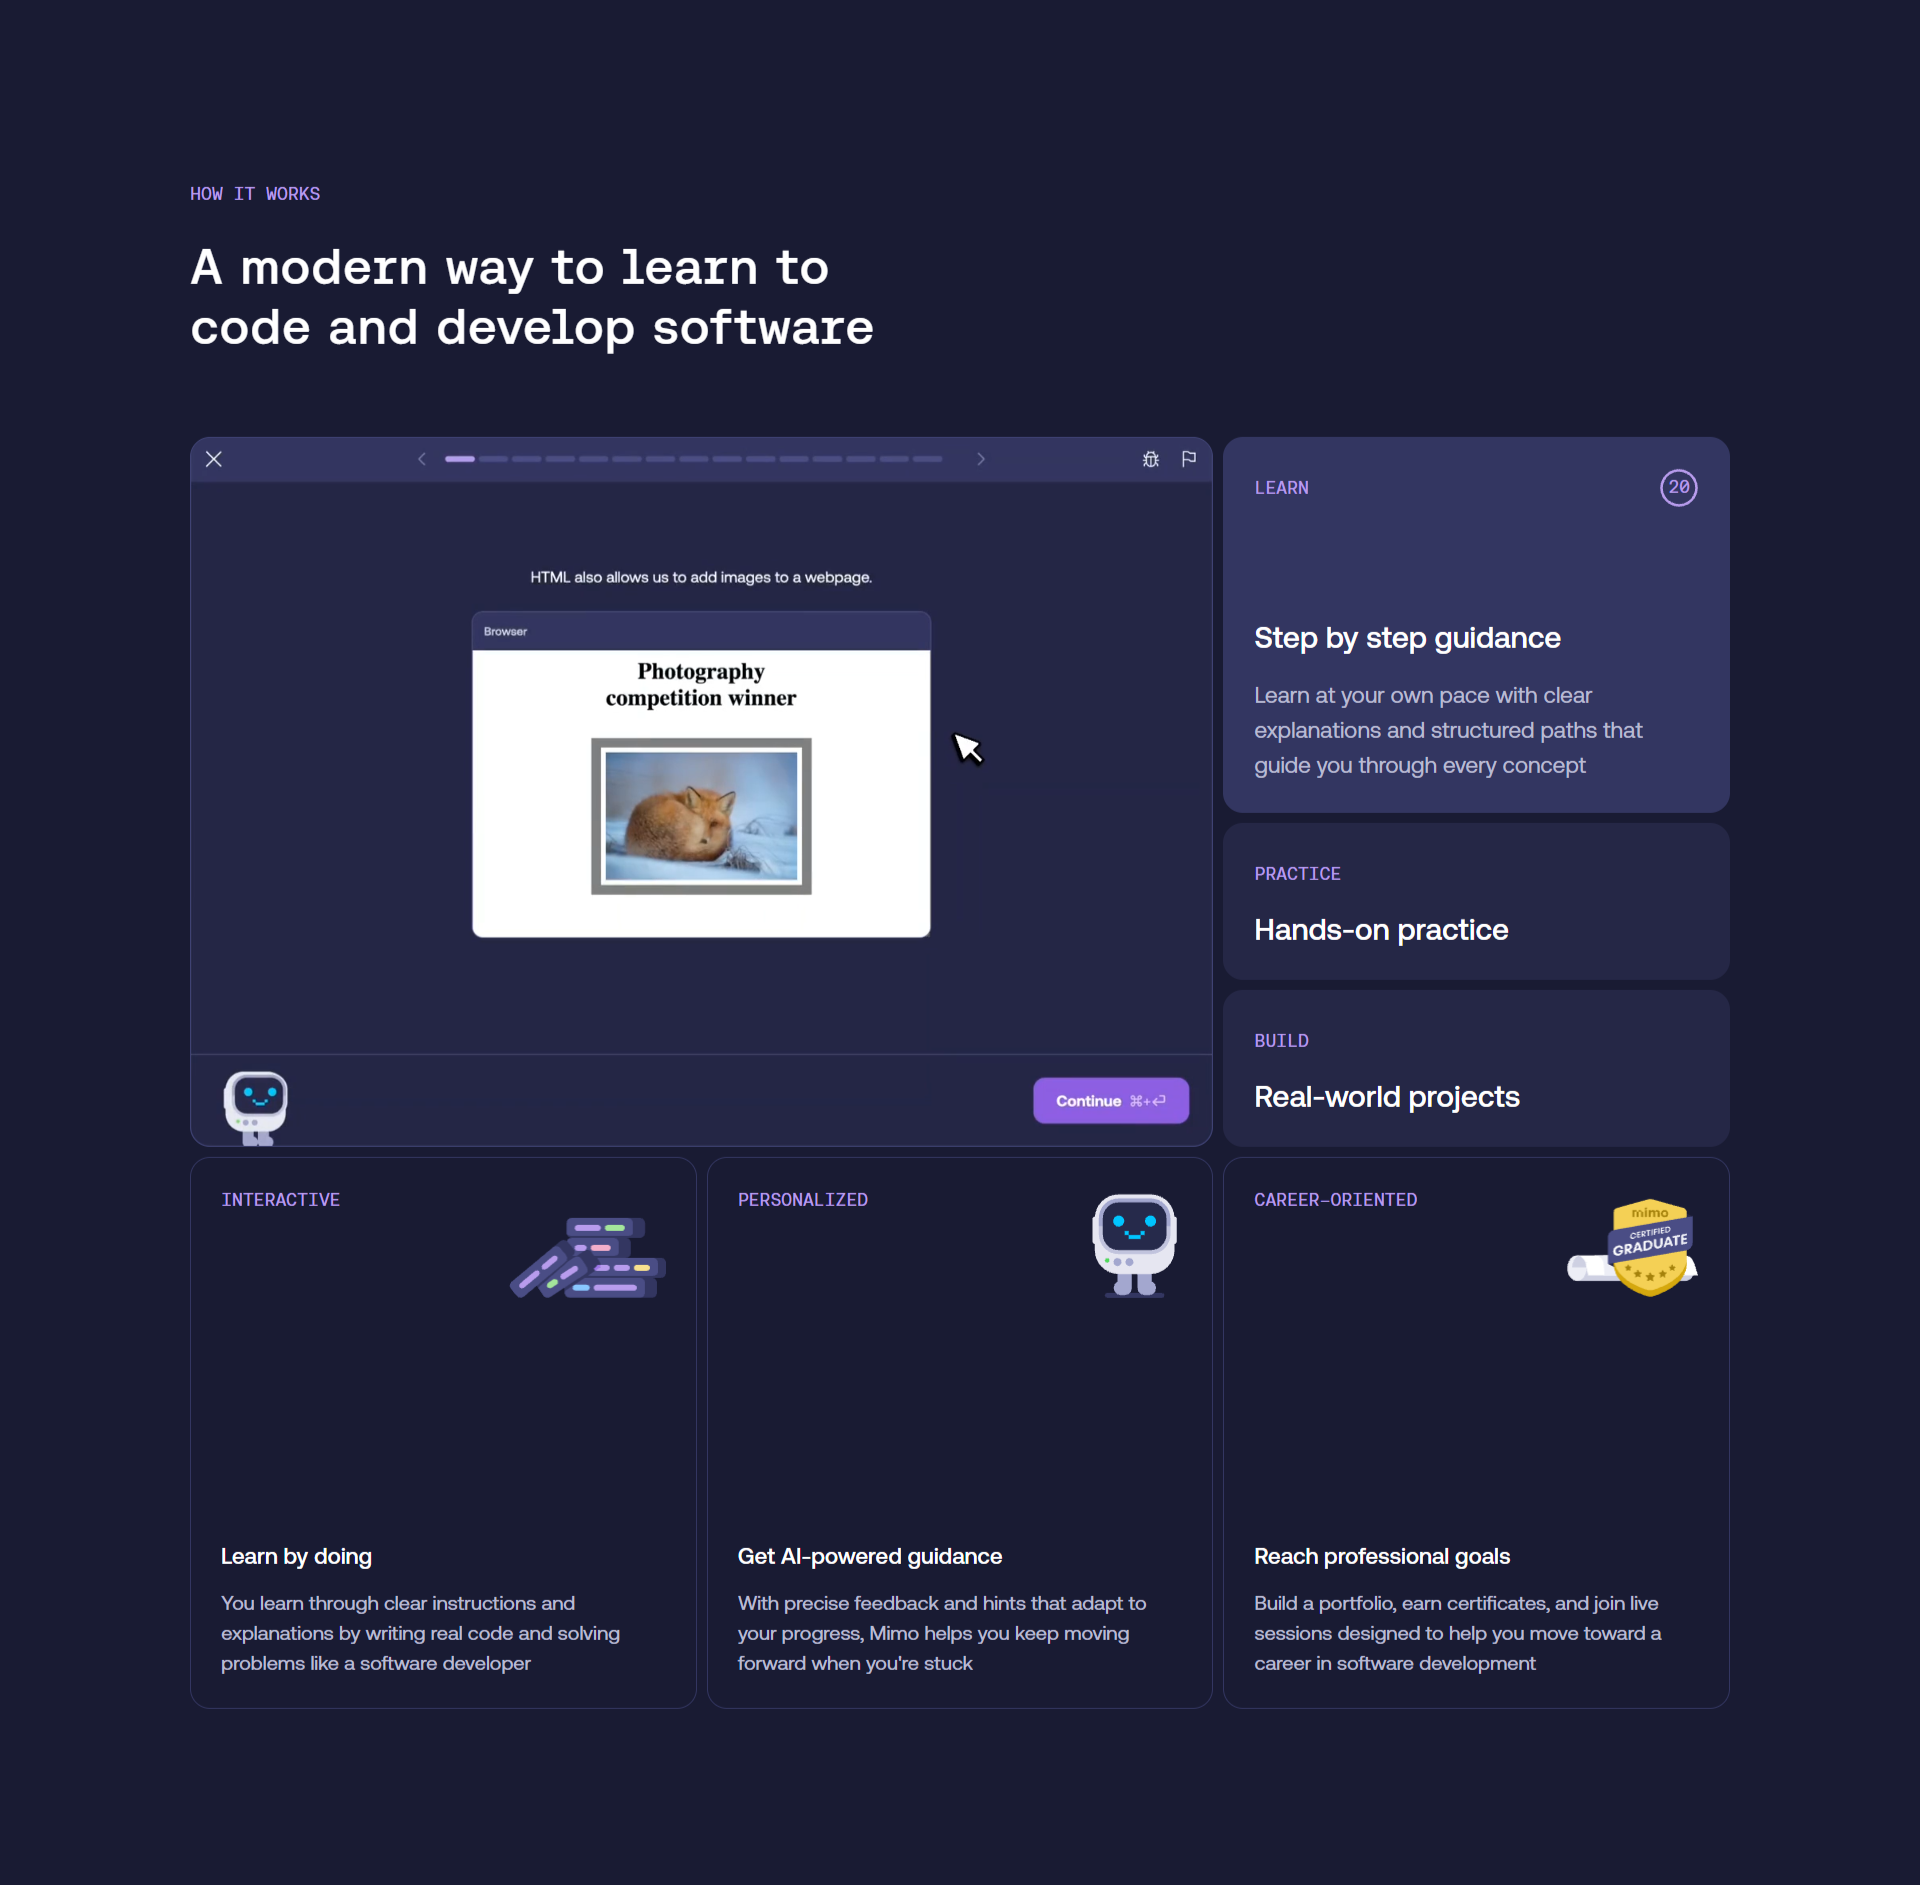
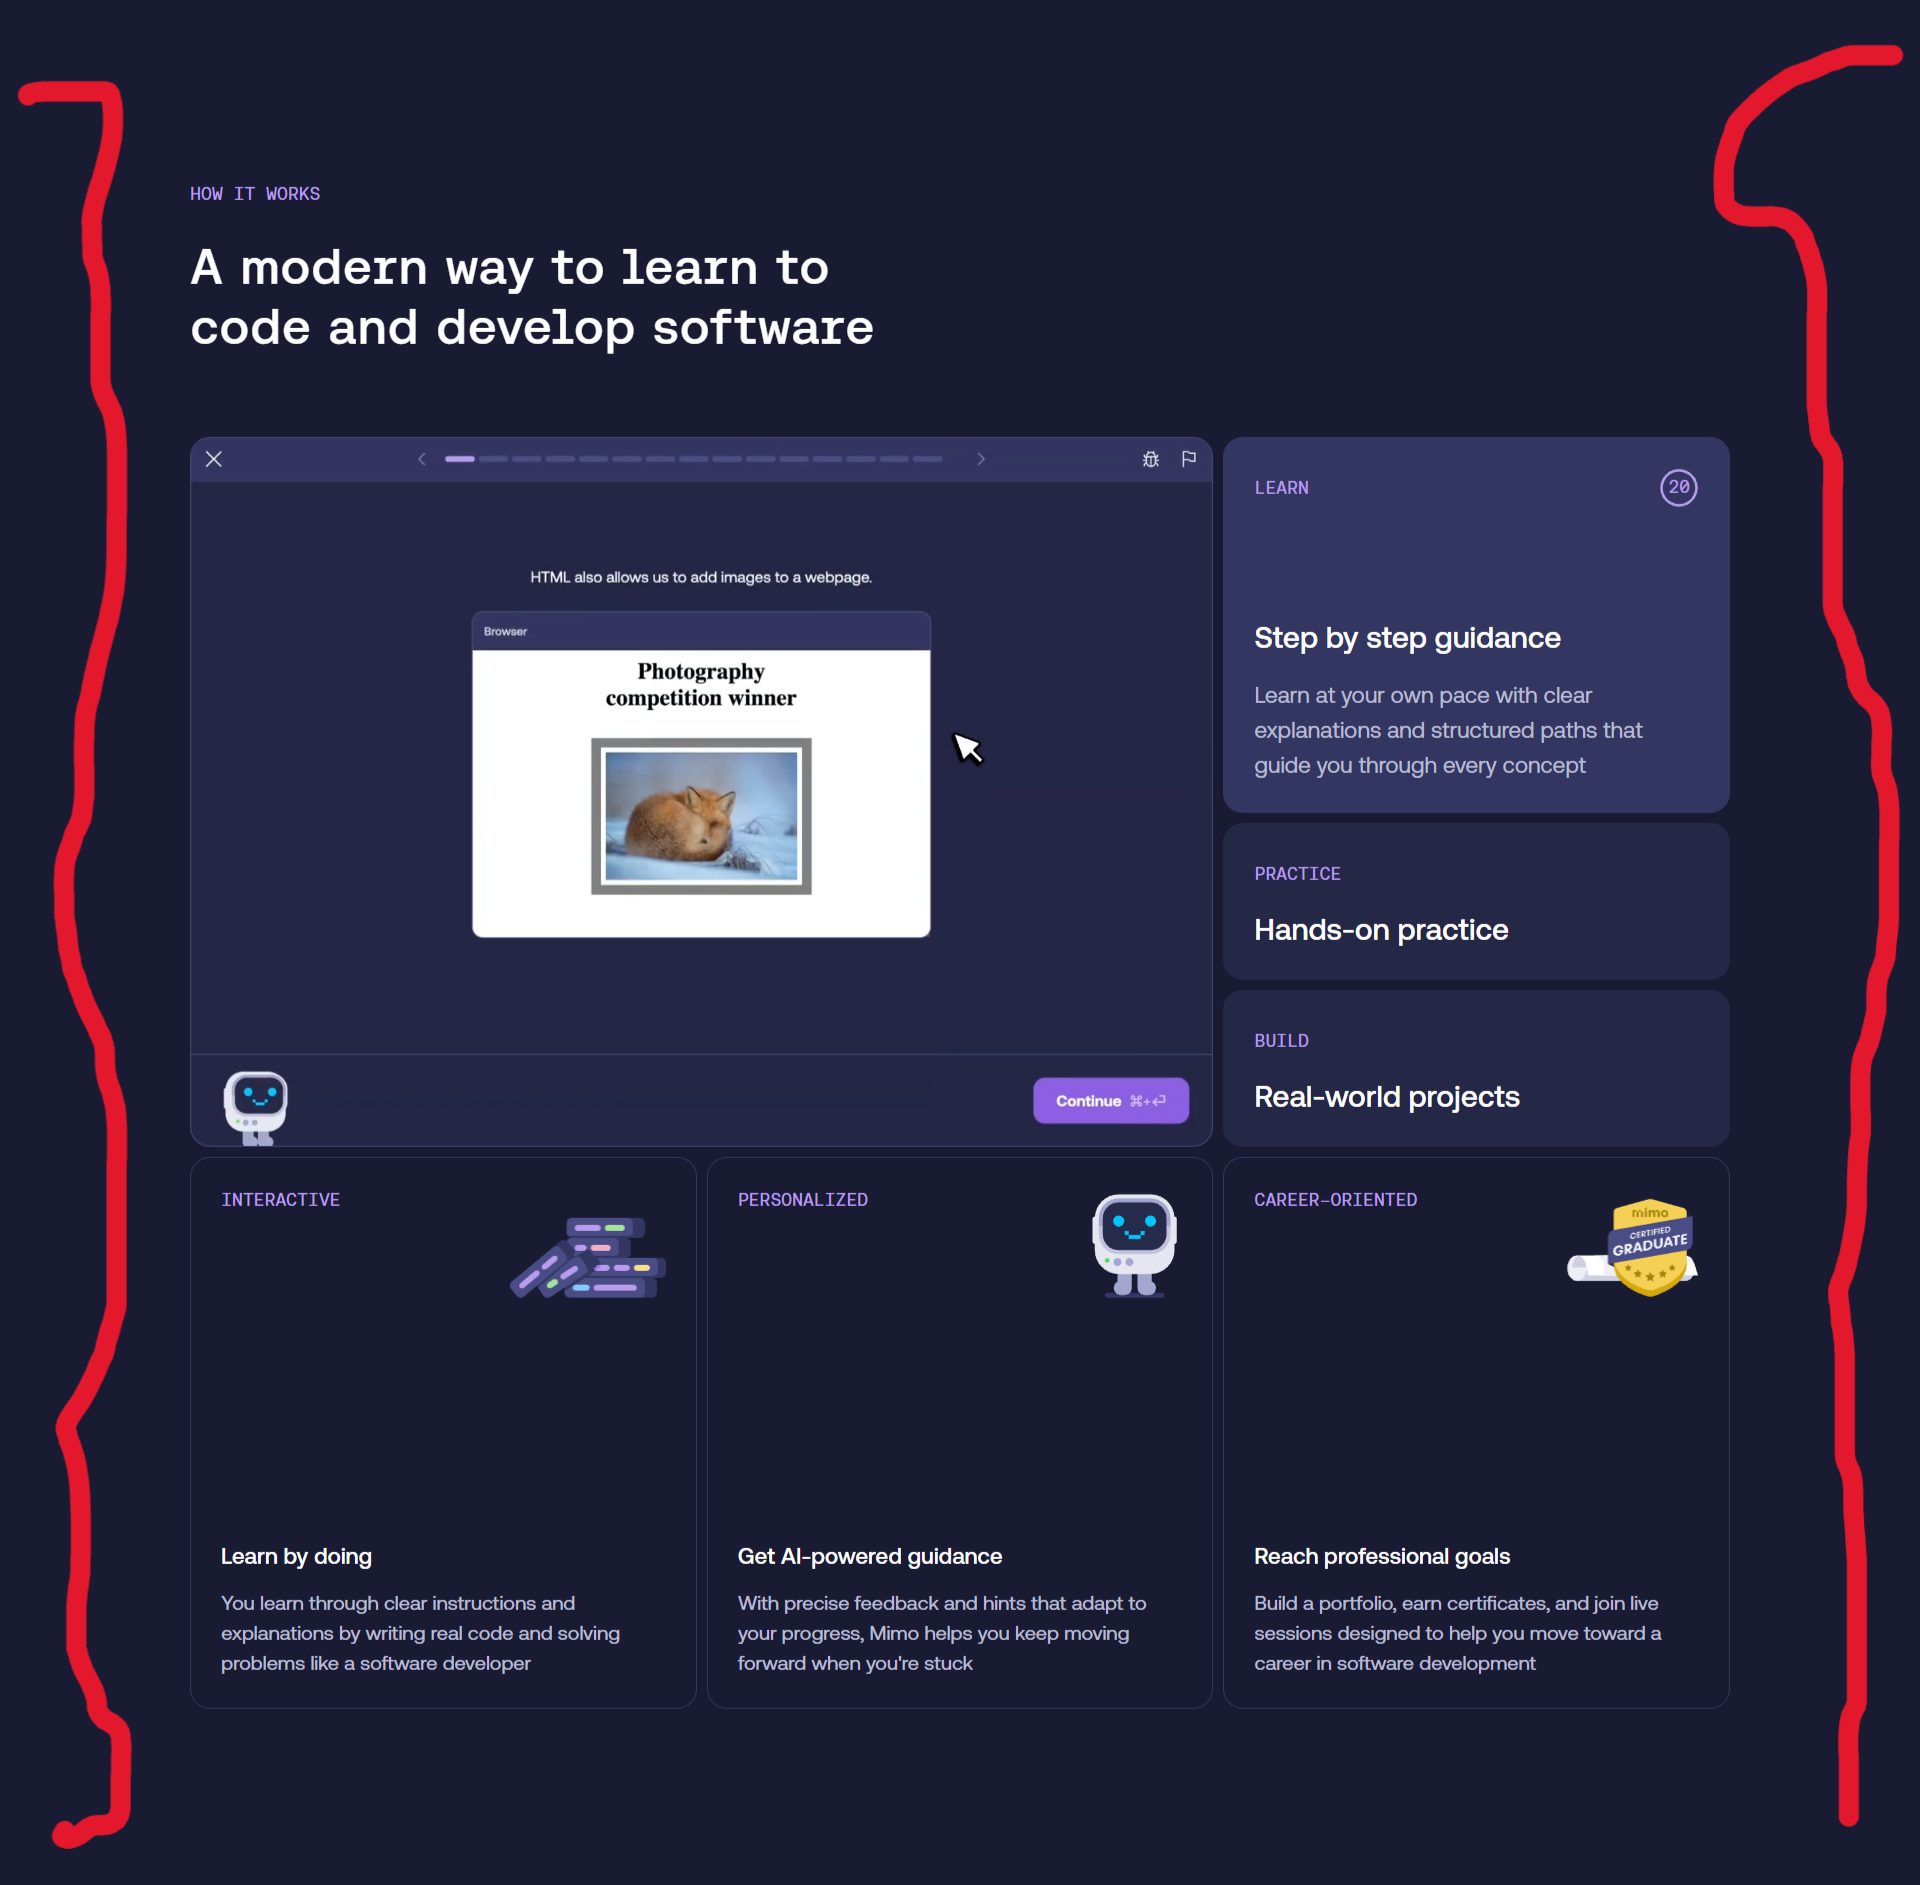
Fixed layout issues

diff --git a/website/Landing/src/components/sections/HowItWorksSection.jsx b/website/Landing/src/components/sections/HowItWorksSection.jsx
@@ -181,61 +181,65 @@ function HowItWorksSection() {
 
   return (
     <section className="how-it-works" aria-labelledby="how-it-works-title">
-      <div className="how-it-works__intro">
-        <p className="eyebrow">How it works</p>
-        <h2 id="how-it-works-title">
-          A modern way to learn to code and develop software
-        </h2>
-      </div>
-
-      <div className="how-it-works__top">
-        <LessonPreview />
-
-        <div className="how-it-works__rail">
-          <div className="workflow-track" aria-hidden="true">
-            {detailCards.map((card, index) => (
-              <span
-                key={card.title}
-                className={index === activeIndex ? 'workflow-track__dot workflow-track__dot--active' : 'workflow-track__dot'}
-              />
-            ))}
+      <div className="container">
+        <div className="how-it-works__inner">
+          <div className="how-it-works__intro">
+            <p className="eyebrow">How it works</p>
+            <h2 id="how-it-works-title">
+              A modern way to learn to code and develop software
+            </h2>
           </div>
 
-          {detailCards.map((card, index) => (
-            <article
-              key={card.title}
-              className={`workflow-card ${index === activeIndex ? 'workflow-card--active' : ''}`.trim()}
-            >
-              <button
-                className="workflow-card__trigger"
-                type="button"
-                onClick={() => handleCardSelect(index)}
-              >
-                <div className="workflow-card__head">
-                  <span className="workflow-card__badge">{card.kicker}</span>
-                  {index === activeIndex ? <ProgressRing remainingMs={remainingMs} /> : null}
-                </div>
-                <h3>{card.title}</h3>
-                <div className="workflow-card__body">
-                  <div className="workflow-card__body-inner">
-                    <p>{card.description}</p>
-                  </div>
-                </div>
-              </button>
-            </article>
-          ))}
-        </div>
-      </div>
+          <div className="how-it-works__top">
+            <LessonPreview />
 
-      <div className="how-it-works__bottom">
-        {benefitCards.map((card) => (
-          <article key={card.title} className={`benefit-card benefit-card--${card.tone}`}>
-            <p className="benefit-card__eyebrow">{card.eyebrow}</p>
-            <BenefitIcon icon={card.icon} />
-            <h3>{card.title}</h3>
-            <p>{card.description}</p>
-          </article>
-        ))}
+            <div className="how-it-works__rail">
+              <div className="workflow-track" aria-hidden="true">
+                {detailCards.map((card, index) => (
+                  <span
+                    key={card.title}
+                    className={index === activeIndex ? 'workflow-track__dot workflow-track__dot--active' : 'workflow-track__dot'}
+                  />
+                ))}
+              </div>
+
+              {detailCards.map((card, index) => (
+                <article
+                  key={card.title}
+                  className={`workflow-card ${index === activeIndex ? 'workflow-card--active' : ''}`.trim()}
+                >
+                  <button
+                    className="workflow-card__trigger"
+                    type="button"
+                    onClick={() => handleCardSelect(index)}
+                  >
+                    <div className="workflow-card__head">
+                      <span className="workflow-card__badge">{card.kicker}</span>
+                      {index === activeIndex ? <ProgressRing remainingMs={remainingMs} /> : null}
+                    </div>
+                    <h3>{card.title}</h3>
+                    <div className="workflow-card__body">
+                      <div className="workflow-card__body-inner">
+                        <p>{card.description}</p>
+                      </div>
+                    </div>
+                  </button>
+                </article>
+              ))}
+            </div>
+          </div>
+
+          <div className="how-it-works__bottom">
+            {benefitCards.map((card) => (
+              <article key={card.title} className={`benefit-card benefit-card--${card.tone}`}>
+                <p className="benefit-card__eyebrow">{card.eyebrow}</p>
+                <BenefitIcon icon={card.icon} />
+                <h3>{card.title}</h3>
+                <p>{card.description}</p>
+              </article>
+            ))}
+          </div>
+        </div>
       </div>
     </section>
   )

diff --git a/website/Landing/src/components/sections/WhatYouWillLearnSection.jsx b/website/Landing/src/components/sections/WhatYouWillLearnSection.jsx
@@ -45,46 +45,50 @@ function CourseChip({ label }) {
 function WhatYouWillLearnSection() {
   return (
     <section className="what-learn" aria-labelledby="what-learn-title">
-      <div className="what-learn__intro">
-        <p className="eyebrow">What you&apos;ll learn</p>
-        <h2 id="what-learn-title">In-demand skills for modern software development</h2>
-      </div>
+      <div className="container">
+        <div className="what-learn__inner">
+          <div className="what-learn__intro">
+            <p className="eyebrow">What you&apos;ll learn</p>
+            <h2 id="what-learn-title">In-demand skills for modern software development</h2>
+          </div>
 
-      <div className="what-learn__grid">
-        {careerCards.map((card) => (
-          <article key={card.title} className="career-card">
-            <div className="career-card__top">
-              <span className="career-card__label">Career path</span>
-              <CareerBadge accent={card.accent} />
+          <div className="what-learn__grid">
+            {careerCards.map((card) => (
+              <article key={card.title} className="career-card">
+                <div className="career-card__top">
+                  <span className="career-card__label">Career path</span>
+                  <CareerBadge accent={card.accent} />
+                </div>
+                <h3>{card.title}</h3>
+                <p>{card.description}</p>
+                <span className="career-card__foot">Beginner friendly</span>
+              </article>
+            ))}
+          </div>
+
+          <div className="course-strip">
+            <p className="course-strip__label">Courses</p>
+            <ul className="course-strip__list">
+              {courseTags.map((course) => (
+                <CourseChip key={course} label={course} />
+              ))}
+            </ul>
+          </div>
+
+          <div className="learn-quiz">
+            <div>
+              <h3>Not sure where to start?</h3>
+              <p>Take a quick quiz to find a path that fits your goals in only a few minutes.</p>
             </div>
-            <h3>{card.title}</h3>
-            <p>{card.description}</p>
-            <span className="career-card__foot">Beginner friendly</span>
-          </article>
-        ))}
-      </div>
-
-      <div className="course-strip">
-        <p className="course-strip__label">Courses</p>
-        <ul className="course-strip__list">
-          {courseTags.map((course) => (
-            <CourseChip key={course} label={course} />
-          ))}
-        </ul>
-      </div>
-
-      <div className="learn-quiz">
-        <div>
-          <h3>Not sure where to start?</h3>
-          <p>Take a quick quiz to find a path that fits your goals in only a few minutes.</p>
-        </div>
-        <Button variant="secondary">Take the quiz</Button>
-        <div className="learn-quiz__bot" aria-hidden="true">
-          <span className="learn-quiz__bot-head">
-            <span />
-            <span />
-          </span>
-          <span className="learn-quiz__bot-body" />
+            <Button variant="secondary">Take the quiz</Button>
+            <div className="learn-quiz__bot" aria-hidden="true">
+              <span className="learn-quiz__bot-head">
+                <span />
+                <span />
+              </span>
+              <span className="learn-quiz__bot-body" />
+            </div>
+          </div>
         </div>
       </div>
     </section>

diff --git a/website/Landing/src/styles/index.css b/website/Landing/src/styles/index.css
@@ -16,6 +16,8 @@
   --green-soft: #0fe05d;
   --button-light: #f7f7f5;
   --button-dark: #09223d;
+  --page-max-width: 1360px;
+  --page-gutter: clamp(24px, 4vw, 72px);
 }
 
 * {
@@ -30,10 +32,7 @@ body {
   margin: 0;
   min-width: 320px;
   font-family: 'Manrope', sans-serif;
-  background:
-    radial-gradient(circle at 18% 82%, rgba(43, 84, 131, 0.22), transparent 28%),
-    radial-gradient(circle at 63% 18%, rgba(31, 65, 108, 0.18), transparent 35%),
-    linear-gradient(180deg, var(--bg) 0%, var(--bg-deep) 100%);
+  background: #ffffff;
   color: var(--text);
 }
 
@@ -57,11 +56,27 @@ input {
   width: 100%;
 }
 
+.container {
+  width: min(100%, calc(var(--page-max-width) + (var(--page-gutter) * 2)));
+  margin: 0 auto;
+  padding-inline: var(--page-gutter);
+}
+
 .page-shell {
   position: relative;
   min-height: 100vh;
   overflow: hidden;
   isolation: isolate;
+  background: #ffffff;
+}
+
+.page-top {
+  position: relative;
+  overflow: hidden;
+  background:
+    radial-gradient(circle at 18% 82%, rgba(43, 84, 131, 0.22), transparent 28%),
+    radial-gradient(circle at 63% 18%, rgba(31, 65, 108, 0.18), transparent 35%),
+    linear-gradient(180deg, var(--bg) 0%, var(--bg-deep) 100%);
 }
 
 .page-grid {
@@ -108,7 +123,7 @@ input {
   align-items: center;
   justify-content: space-between;
   gap: 28px;
-  padding: 22px 32px 0;
+  padding: 22px 0 0;
 }
 
 .brand {
@@ -256,7 +271,7 @@ input {
   gap: 64px;
   align-items: center;
   min-height: calc(100vh - 92px);
-  padding: 72px 64px 72px 180px;
+  padding: 72px 0;
 }
 
 .hero-copy {
@@ -501,9 +516,12 @@ input {
 .how-it-works {
   position: relative;
   z-index: 1;
-  padding: 44px 64px 120px 64px;
   background: #f7f4ef;
   color: #071c31;
+}
+
+.how-it-works__inner {
+  padding: 44px 0 120px;
 }
 
 .how-it-works__intro {
@@ -1171,9 +1189,12 @@ input {
 .what-learn {
   position: relative;
   z-index: 1;
-  padding: 112px 64px 128px 64px;
   background: #071c31;
   color: var(--text);
+}
+
+.what-learn__inner {
+  padding: 112px 0 128px;
 }
 
 .what-learn__intro {
@@ -1700,7 +1721,6 @@ input {
 @media (max-width: 1320px) {
   .site-header {
     flex-wrap: wrap;
-    padding-inline: 28px;
   }
 
   .site-nav {
@@ -1713,7 +1733,7 @@ input {
   .hero-layout {
     grid-template-columns: 1fr;
     gap: 40px;
-    padding: 56px 28px 60px;
+    padding: 56px 0 60px;
   }
 
   .hero-copy {
@@ -1725,12 +1745,12 @@ input {
     max-width: 520px;
   }
 
-  .how-it-works {
-    padding: 24px 28px 96px;
+  .how-it-works__inner {
+    padding: 24px 0 96px;
   }
 
-  .what-learn {
-    padding: 72px 28px 96px;
+  .what-learn__inner {
+    padding: 72px 0 96px;
   }
 
   .site-endcap {
@@ -1799,7 +1819,7 @@ input {
     min-height: 74px;
   }
 
-  .how-it-works {
+  .how-it-works__inner {
     padding-top: 18px;
   }
 
@@ -1856,7 +1876,7 @@ input {
   }
 
   .hero-layout {
-    padding: 44px 16px 48px;
+    padding: 44px 0 48px;
   }
 
   .hero-copy__text {
@@ -1875,12 +1895,16 @@ input {
     font-size: 1rem;
   }
 
-  .how-it-works {
-    padding: 8px 16px 72px;
+  .container {
+    padding-inline: 16px;
   }
 
-  .what-learn {
-    padding: 12px 16px 72px;
+  .how-it-works__inner {
+    padding: 8px 0 72px;
+  }
+
+  .what-learn__inner {
+    padding: 12px 0 72px;
   }
 
   .how-it-works__intro {

diff --git a/website/Landing/src/App.jsx b/website/Landing/src/App.jsx
@@ -9,12 +9,16 @@ function App() {
   return (
     <div className="page-shell">
       <div className="page-shell__inner">
-        <div className="page-grid" aria-hidden="true" />
-        <Header />
         <main>
-          <section className="hero-layout">
-            <HeroContent />
-            <SignupCard />
+          <section className="page-top">
+            <div className="page-grid" aria-hidden="true" />
+            <div className="container">
+              <Header />
+              <div className="hero-layout">
+                <HeroContent />
+                <SignupCard />
+              </div>
+            </div>
           </section>
           <HowItWorksSection />
           <WhatYouWillLearnSection />
